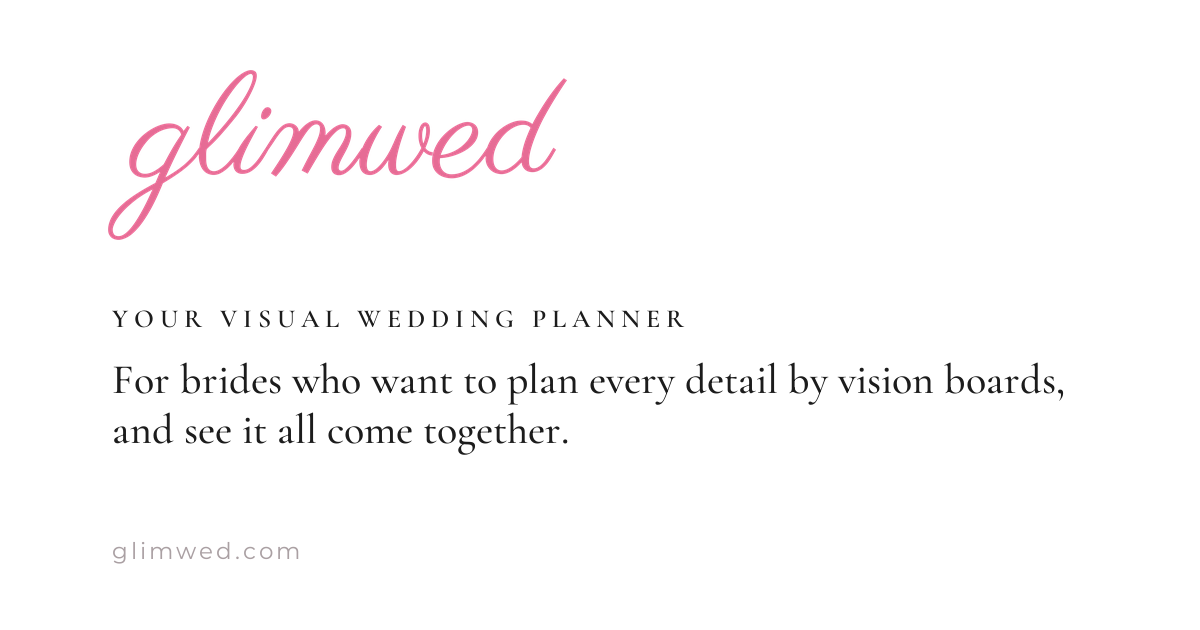
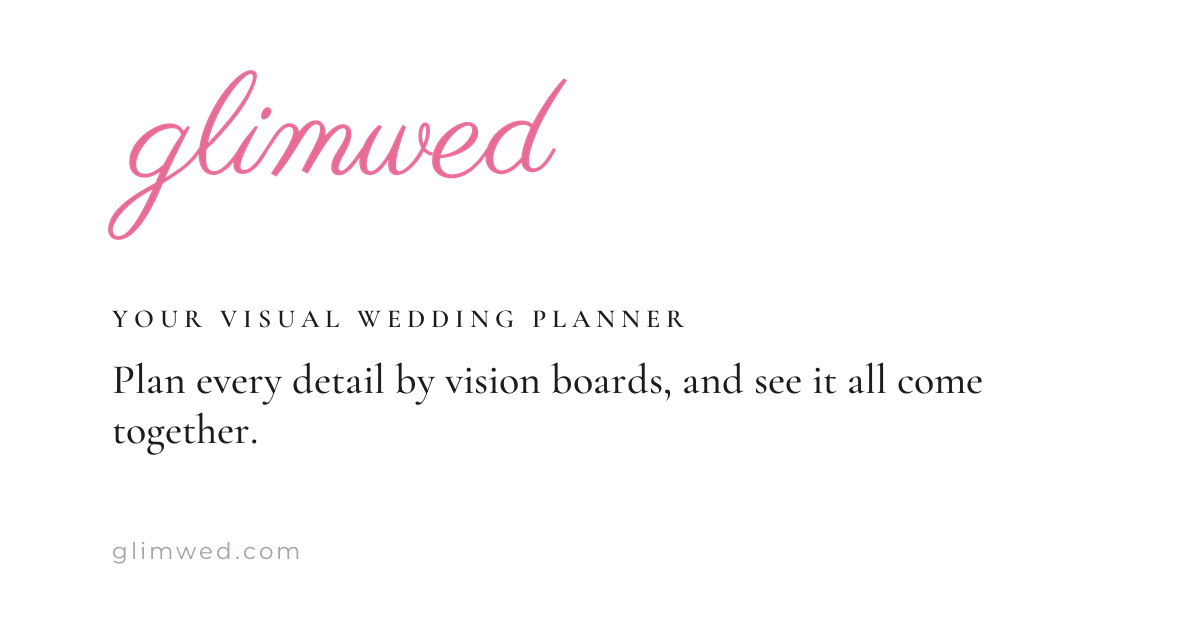
Update share card tagline to 'Plan every detail by vision boards...'
Aligns OG image text + meta/OG/Twitter copy; bumps og:image to v4.

Changed region(s): [[0.0925, 0.573, 0.8942, 0.6333], [0.0925, 0.6635, 0.4625, 0.7238]]

diff --git a/index.html b/index.html
@@ -4,22 +4,22 @@
 <meta charset="UTF-8">
 <meta name="viewport" content="width=device-width, initial-scale=1.0">
 <title>Glimwed — Your Wedding Vision Board</title>
-<meta name="description" content="Glimwed is your visual wedding planner — for brides who want to plan every detail by vision boards, and see it all come together. Your dress, flowers, venue and palette in one beautiful place.">
+<meta name="description" content="Glimwed is your visual wedding planner — plan every detail by vision boards, and see it all come together. Your dress, flowers, venue and palette in one beautiful place.">
 
 <!-- Social share preview (Open Graph + Twitter) -->
 <meta property="og:type" content="website">
 <meta property="og:site_name" content="Glimwed">
 <meta property="og:title" content="Glimwed — Your Visual Wedding Planner">
-<meta property="og:description" content="For brides who want to plan every detail by vision boards, and see it all come together.">
+<meta property="og:description" content="Plan every detail by vision boards, and see it all come together.">
 <meta property="og:url" content="https://www.glimwed.com/">
-<meta property="og:image" content="https://www.glimwed.com/og-image.png?v=3">
+<meta property="og:image" content="https://www.glimwed.com/og-image.png?v=4">
 <meta property="og:image:width" content="1200">
 <meta property="og:image:height" content="630">
-<meta property="og:image:alt" content="glimwed — for brides who want to plan every detail by vision boards, and see it all come together.">
+<meta property="og:image:alt" content="glimwed — plan every detail by vision boards, and see it all come together.">
 <meta name="twitter:card" content="summary_large_image">
 <meta name="twitter:title" content="Glimwed — Your Visual Wedding Planner">
-<meta name="twitter:description" content="For brides who want to plan every detail by vision boards, and see it all come together.">
-<meta name="twitter:image" content="https://www.glimwed.com/og-image.png?v=3">
+<meta name="twitter:description" content="Plan every detail by vision boards, and see it all come together.">
+<meta name="twitter:image" content="https://www.glimwed.com/og-image.png?v=4">
[2 lines of base64/hex data omitted]
 

diff --git a/make_og.py b/make_og.py
@@ -58,7 +58,7 @@ f_tag.set_variation_by_axes([500])           # Medium on the weight axis
 f_url = ImageFont.truetype(MONT, 23)
 
 eye_txt = "YOUR VISUAL WEDDING PLANNER"
-tag_txt = "For brides who want to plan every detail by vision boards, and see it all come together."
+tag_txt = "Plan every detail by vision boards, and see it all come together."
 tag_lines = wrap(tag_txt, f_tag, USABLE)
 tag_lh = 50
 
